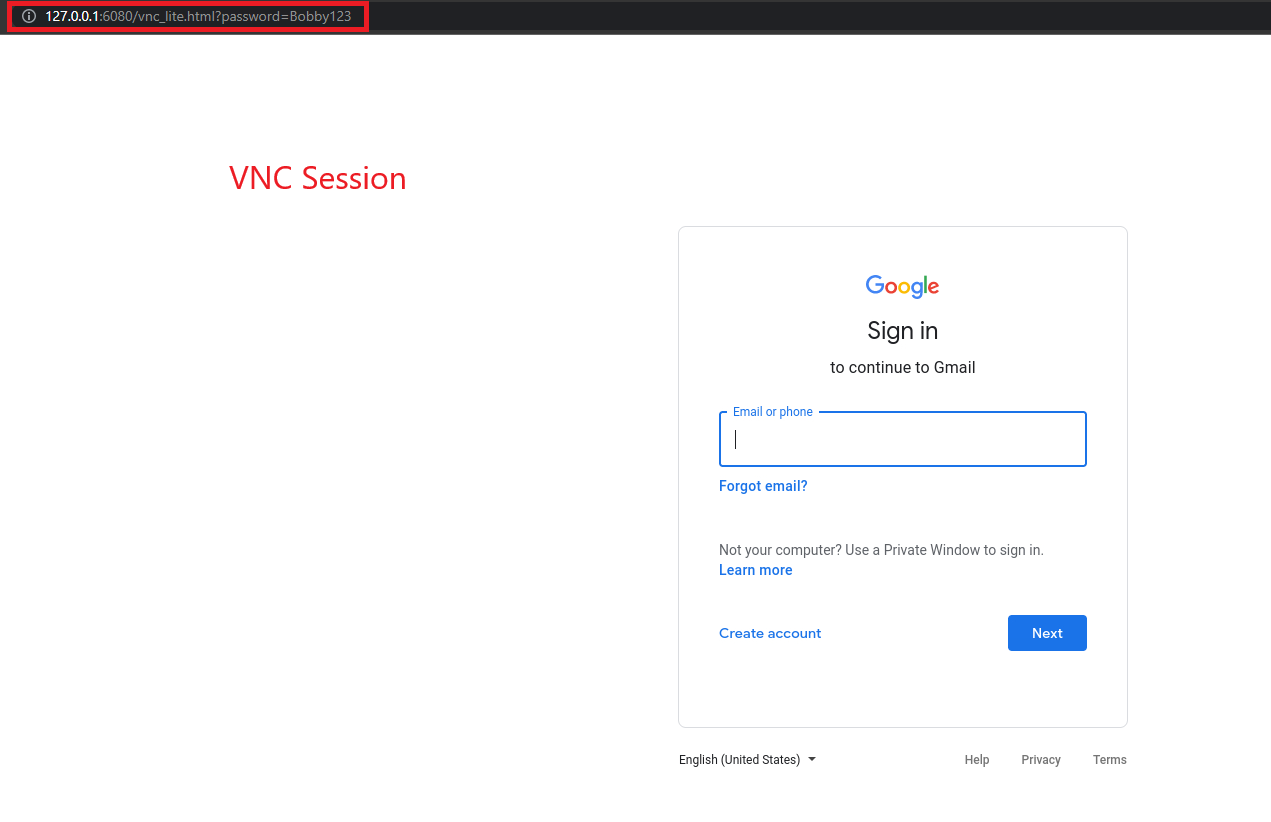
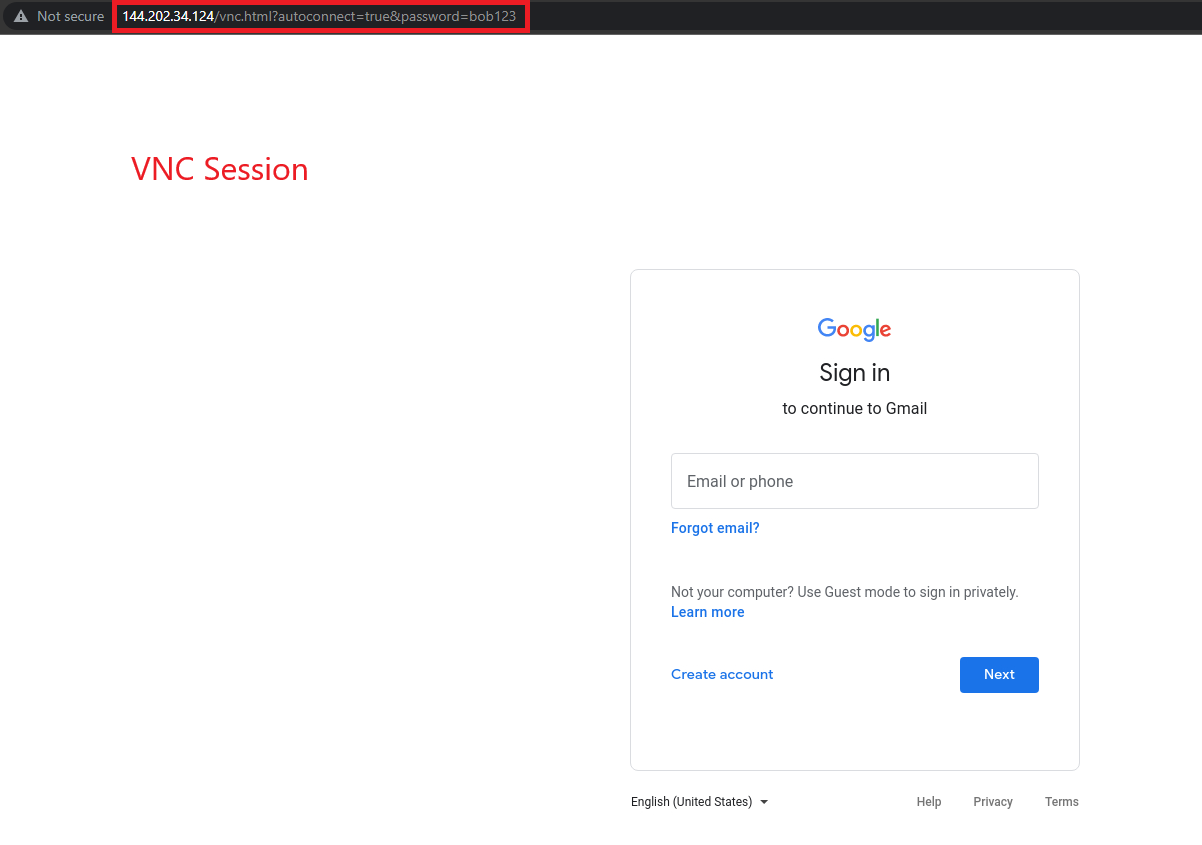
found a way to use vnc.html instead of the lite version. This is preferred as it has better screen resolution resizing capabiliies.

diff --git a/src/pages/bypass-2fa-using-novnc/index.md b/src/pages/bypass-2fa-using-novnc/index.md
@@ -102,15 +102,21 @@ This command will need to be run from within the VNC session or else you'll get 
 
 ## Step 5 - Access The Page
 
-The `password=VNCPASSWORD` will make the user auto authenticate. noVNC is very flexible. If you'd like to rename the query parameter it's possible by modifying the `vnc_lite.html` file.
+The `autoconnect=true&password=VNCPASSWORD` will make the user auto authenticate. noVNC is very flexible. If you'd like to rename the query parameter it's possible by modifying the `vnc.html` file.
 
-    http://127.0.0.1:6080/vnc_lite.html?password=VNCPASSWORD
+    http://127.0.0.1:6080/vnc.html?autoconnect=true&password=bob123
 
-![Phishing](./vnc2.png)
+## Step 6 - Modifying CSS
 
-## Step 6 - Removing The Top Bar
+noVNC displays a custom loading page, a VNC control bar and some additional unnecessary visual items which should be removed. Open `vnc.html` then find the divs below and add the shown CSS styling.
 
-noVNC displays a bar at the top saying 'Connected to XXXXX'. It can be easily removed by modifying the `vnc_lite.html` file. Search for `#top_bar` and set it to `display:none`.
+    <!-- Hide unnecessary items -->
+    <div id="noVNC_control_bar_anchor" class="noVNC_vcenter" style="display:none;">
+    <div id="noVNC_status" style="display:none"></div>
+
+    <!-- Makes the loading page white -->
+    <div id="noVNC_transition" style="background-color:white;color:white">
+
 
 ![Phishing-2](./vnc3.png)
 
@@ -118,7 +124,7 @@ noVNC displays a bar at the top saying 'Connected to XXXXX'. It can be easily re
 
 So far what I've shown you will get you a single phishing page running which is good enough if you're planning on spear phishing. But what if you'd like to run a large phishing campaign and require several VNC instances? Remember, you cannot send the same link to different users since they'd be sharing the same VNC session. The solution is quite simple and can be easily automated.
 
-First, launch X number of instances of tigerVNC. I'll be keeping it simple and launching 2 instances.
+First, launch X number of instances of TigerVNC. I'll be keeping it simple and launching 2 instances.
 
 ![VNC-Launch](./vnc-launch.png)
 
@@ -126,7 +132,7 @@ Use `vncserver -list` to check which ports each session is using.
 
 ![VNC-Port](./vnc-port.png)
 
-The first tigerVNC session (port 5901) will be publicly accessible on port 80. The second tigerVNC session (port 5902) will be publicly accessible on port 81.
+The first TigerVNC session (port 5901) will be publicly accessible on port 80. The second TigerVNC session (port 5902) will be publicly accessible on port 81.
 
 ![noVNC-1](./novnc1.png)
 
@@ -138,7 +144,9 @@ Now you can easily access the different sessions by appending the query paramete
 
 # noVNC Auto Scaling
 
-To use noVNC's auto scale feature simply tag on another query parameter `&scale=true`. The auto scaling functionality is not always great at making maximizing the screen so I recommend you run some tests before using it.
+To use noVNC's auto scale feature simply tag on another query parameter `&resize=remote`. The URL would look like this:
+
+    http://example.com/vnc.html?autoconnect=true&password=pass123&resize=remote
 
 # Ubuntu - Disable Auto Screen Lock
 
@@ -147,9 +155,6 @@ Don't forget to disable auto screen lock otherwise a user will click your phishi
     gsettings set org.gnome.desktop.lockdown disable-lock-screen 'true'
     gsettings set org.gnome.desktop.screensaver lock-enabled false
 
-# Passively Spying on Users 
-
-It's possible to open the same link as the one sent to the target user and passively watch what they are doing. Be cautious as any interaction you do would appear to the user as well.
 
 # Alternative Software
 
